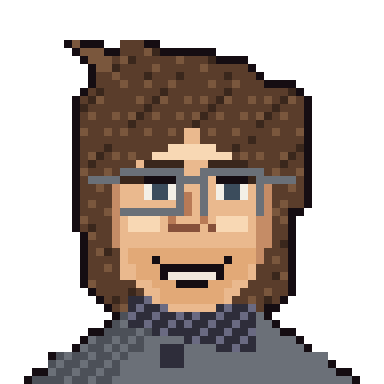
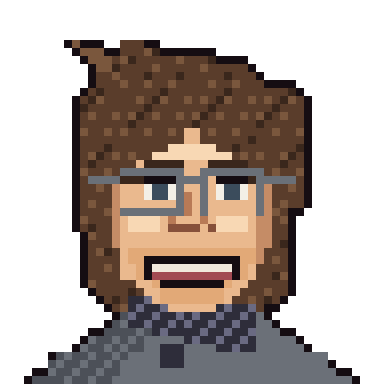
Skip: single teeth row, pink lip in its place, bottom line up one row

Changed region(s): [[0.375, 0.6562, 0.625, 0.75]]

diff --git a/src/characters.js b/src/characters.js
@@ -188,13 +188,12 @@ function paintDealoneFull(cv, st = {}) {
   eyesAt(P, 20); noseAt(P, 21); px(21, 26, 'skinDk', 1, 1); px(27, 26, 'skinDk', 1, 1);
   for (const gx of [14, 26]) { px(gx, 18, '#6a7078', 9, 1); px(gx, 24, '#6a7078', 9, 1); px(gx, 18, '#6a7078', 1, 7); px(gx + 8, 18, '#6a7078', 1, 7); }
   px(23, 19, '#6a7078', 3, 1); px(10, 19, '#6a7078', 4, 1); px(35, 19, '#6a7078', 4, 1);
-  // smaller upward-curving smile, outlined in black on all sides: corners raised, white teeth on top, dark mouth below
-  const T = !!st.talk;
-  px(19, 30, 'ol'); px(29, 30, 'ol');                                          // raised corners
-  px(20, 31, 'ol', 9, 1);                                                      // top line
-  px(20, 32, 'ol'); px(21, 32, 'tooth', 7, 1); px(28, 32, 'ol');               // teeth
-  px(21, 33, 'ol'); px(22, 33, '#5a1a22', 5, 1); px(27, 33, 'ol');             // dark mouth
-  if (T) { px(21, 34, 'ol'); px(22, 34, '#5a1a22', 5, 1); px(27, 34, 'ol'); px(22, 35, 'ol', 5, 1); } else px(22, 34, 'ol', 5, 1);   // bottom line (lower when laughing)
+  // open smile (the version from build #83, with the lower white teeth row removed): top line, ONE row of teeth, pink lower lip, bottom line
+  px(18, 30, 'ol', 13, 1);                                                      // top line
+  px(19, 31, 'tooth', 11, 1);                                                   // teeth (single row)
+  if (st.talk) px(19, 32, '#5a1a22', 11, 2); else px(19, 32, '#a24a52', 11, 2); // pink lower lip takes the place of the second teeth row (dark when talking)
+  px(20, 34, 'ol', 9, 1);                                                       // bottom line, moved up one row
+  px(18, 31, 'ol', 1, 3); px(30, 31, 'ol', 1, 3);                               // dark corners
   P.outline();
 }
 

diff --git a/src/version.js b/src/version.js
@@ -1,2 +1,2 @@
 // generated by tools/stamp.mjs
-export const BUILD = { n: 88, time: '2026-10-14T11:54:46.958Z' };
+export const BUILD = { n: 89, time: '2026-10-14T11:56:34.969Z' };
